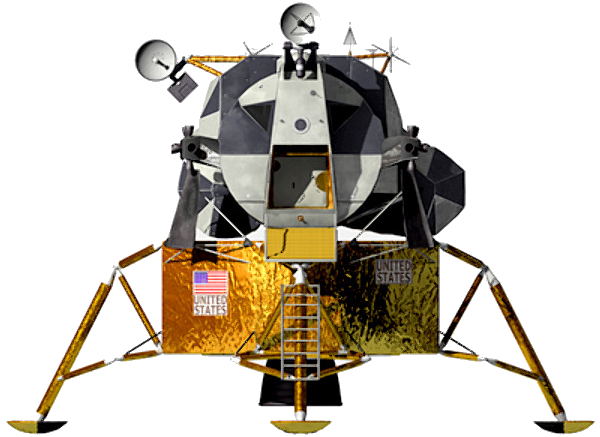
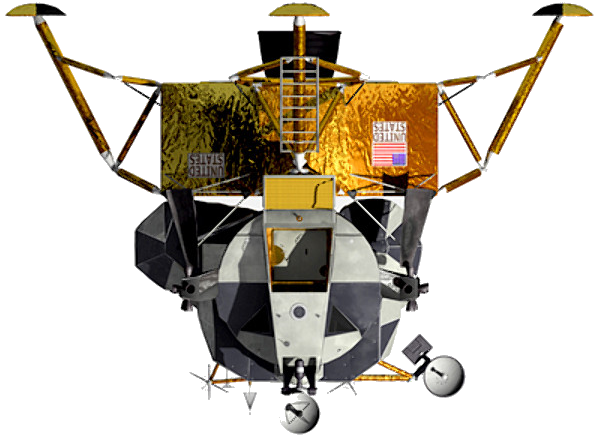
collision detection sort of works

diff --git a/Assignment3 - LunarLander/GamePlayView.cs b/Assignment3 - LunarLander/GamePlayView.cs
@@ -41,14 +41,25 @@ namespace CS5410
             InitializeLunarLander();
         }
 
-        public override GameStateEnum processInput(GameTime gameTime)
+        private void InitializeTerrain()
         {
-            if (Keyboard.GetState().IsKeyDown(Keys.Escape))
+            Vector2 startPoint = new Vector2(0, minY + (float)randomMisc.nextDouble() * (maxY - minY));
+            Vector2 endPoint = new Vector2(1, minY + (float)randomMisc.nextDouble() * (maxY - minY));
+            int iterations = 7;
+            float roughness = 4.0f;
+            float safeZoneDistance = .08f;
+            safeZones = new List<SafeZone>();
+            if (level == 1)
             {
-                return GameStateEnum.MainMenu;
+                AddSafeZones(2, safeZoneDistance);
             }
-
-            return GameStateEnum.GamePlay;
+            else
+            {
+                AddSafeZones(1, safeZoneDistance - .02f);
+            }
+            terrain = RandomMidpointDisplacement(startPoint, endPoint, roughness, iterations);
+            terrain.Insert(0, startPoint);
+            terrain.Add(endPoint);
         }
 
         private void GenerateTerrainOutline()
@@ -129,25 +140,37 @@ namespace CS5410
             }
         }
 
-        private void InitializeTerrain()
+        private void InitializeLunarLander()
         {
-            Vector2 startPoint = new Vector2(0, minY + (float)randomMisc.nextDouble() * (maxY - minY));
-            Vector2 endPoint = new Vector2(1, minY + (float)randomMisc.nextDouble() * (maxY - minY));
-            int iterations = 7;
-            float roughness = 4.0f;
-            float safeZoneDistance = .08f;
-            safeZones = new List<SafeZone>();
-            if (level == 1)
+            int screenWidth = m_graphics.PreferredBackBufferWidth;
+            int screenHeight = m_graphics.PreferredBackBufferHeight;
+            float desiredHeightPercentage = 0.05f;
+
+            // Calculate the scale factor based on the desired height of the lunar lander relative to screen height
+            float landerHeightAtScale = screenHeight * desiredHeightPercentage;
+            m_landerScale = landerHeightAtScale / m_lunarLander.Height;
+
+            // Calculate the Y-coordinate position to ensure it's above maxY by a margin and below the top of the screen
+            float maxYScreenPosition = screenHeight * (1 - maxY); // Convert maxY to screen coordinates
+            float landerYPositionMargin = maxYScreenPosition * 0.4f; // 40% above the maxY terrain height
+
+            // Randomize X position
+            float landerX = (float)randomMisc.nextDoubleInRange(0, screenWidth - (m_lunarLander.Width * m_landerScale));
+
+            // Generate a random rotation. Assuming full rotation is from 0 to 2*PI radians
+            float randomRotation = (float)(randomMisc.nextDouble() * Math.PI * 2);
+            
+            lunarLander = new LunarLander(new Vector2(landerX, landerYPositionMargin - (m_lunarLander.Height * m_landerScale)), randomRotation, m_landerScale);
+        }
+
+        public override GameStateEnum processInput(GameTime gameTime)
+        {
+            if (Keyboard.GetState().IsKeyDown(Keys.Escape))
             {
-                AddSafeZones(2, safeZoneDistance);
+                return GameStateEnum.MainMenu;
             }
-            else
-            {
-                AddSafeZones(1, safeZoneDistance - .02f);
-            }
-            terrain = RandomMidpointDisplacement(startPoint, endPoint, roughness, iterations);
-            terrain.Insert(0, startPoint);
-            terrain.Add(endPoint);
+
+            return GameStateEnum.GamePlay;
         }
 
         private List<Vector2> RandomMidpointDisplacement(Vector2 start, Vector2 end, float roughness, int iterations)
@@ -202,29 +225,6 @@ namespace CS5410
             return null;
         }
 
-        private void InitializeLunarLander()
-        {
-            int screenWidth = m_graphics.PreferredBackBufferWidth;
-            int screenHeight = m_graphics.PreferredBackBufferHeight;
-            float desiredHeightPercentage = 0.05f;
-
-            // Calculate the scale factor based on the desired height of the lunar lander relative to screen height
-            float landerHeightAtScale = screenHeight * desiredHeightPercentage;
-            m_landerScale = landerHeightAtScale / m_lunarLander.Height;
-
-            // Calculate the Y-coordinate position to ensure it's above maxY by a margin and below the top of the screen
-            float maxYScreenPosition = screenHeight * (1 - maxY); // Convert maxY to screen coordinates
-            float landerYPositionMargin = maxYScreenPosition * 0.4f; // 40% above the maxY terrain height
-
-            // Randomize X position
-            float landerX = (float)randomMisc.nextDoubleInRange(0, screenWidth - (m_lunarLander.Width * m_landerScale));
-
-            // Generate a random rotation. Assuming full rotation is from 0 to 2*PI radians
-            float randomRotation = (float)(randomMisc.nextDouble() * Math.PI * 2);
-            
-            lunarLander = new LunarLander(new Vector2(landerX, landerYPositionMargin - (m_lunarLander.Height * m_landerScale)), randomRotation, m_landerScale);
-        }
-
         public override void render(GameTime gameTime)
         {
             m_spriteBatch.Begin();
@@ -244,7 +244,7 @@ namespace CS5410
                     PrimitiveType.LineList, m_outline, 0, m_outline.Length / 2);
             }
             m_spriteBatch.Begin();
-            
+
             Vector2 origin = new Vector2(m_lunarLander.Width / 2, m_lunarLander.Height / 2);
             m_spriteBatch.Draw(
                 m_lunarLander,
@@ -263,6 +263,48 @@ namespace CS5410
 
         public override void update(GameTime gameTime)
         {
+
+            // Update the lunar lander's position based on gravity
+            lunarLander.update(gameTime);
+
+            var keyboardState = Keyboard.GetState();
+            if (keyboardState.IsKeyDown(Keys.Up) || keyboardState.IsKeyDown(Keys.W))
+            {
+                lunarLander.ApplyThrust();
+            }
+            if (keyboardState.IsKeyDown(Keys.Left) || keyboardState.IsKeyDown(Keys.A))
+            {
+                lunarLander.Rotate(-0.05f);
+            }
+            if (keyboardState.IsKeyDown(Keys.Right) || keyboardState.IsKeyDown(Keys.D))
+            {
+                lunarLander.Rotate(0.05f);
+            }
+            if (keyboardState.IsKeyDown(Keys.Q))
+            {
+                Console.WriteLine(lunarLander.Speed);
+            }
+
+            int scaleX = m_graphics.PreferredBackBufferWidth;
+            int scaleY = m_graphics.PreferredBackBufferHeight;
+            // Check for collision between the lunar lander and the terrain
+            for (int i = 0; i < terrain.Count - 1; i++)
+            {
+                Vector2 start = new Vector2(terrain[i].X * scaleX, scaleY - (terrain[i].Y * scaleY));
+                Vector2 end = new Vector2(terrain[i + 1].X * scaleX, scaleY - (terrain[i + 1].Y * scaleY));
+                float lunarLanderRadius = m_lunarLander.Width / 2 * m_landerScale;
+                if (CollisionDetection.LineCircleIntersection(start, end, new Circle(lunarLander.Position, lunarLanderRadius)))
+                {
+                    if (lunarLander.RotationInDegrees >= 175 && lunarLander.RotationInDegrees <= 185 && lunarLander.Speed < 2)
+                    {
+                        Console.WriteLine("GOOD");
+                    }
+                    else
+                    {
+                        Console.WriteLine("BAD");
+                    }
+                }
+            }
         }
     }
 }

diff --git a/Assignment3 - LunarLander/LunarLander.cs b/Assignment3 - LunarLander/LunarLander.cs
@@ -1,3 +1,4 @@
+using System;
 using Microsoft.Xna.Framework;
 public class LunarLander
 {
@@ -5,9 +6,9 @@ public class LunarLander
     public Vector2 Velocity { get; private set; }
     public float Rotation { get; private set; }
     public float Scale { get; set; }
-
-    private const float Gravity = 0.1f; // Gravitational acceleration constant
-    private const float Thrust = -0.2f; // Acceleration due to thrust
+    private const float Gravity = 0.35f;
+    private const float Thrust = -0.03f;
+    
 
     public LunarLander(Vector2 startPosition, float startRotation, float scale)
     {
@@ -16,32 +17,44 @@ public class LunarLander
         Scale = scale;
         Velocity = Vector2.Zero;
     }
+                
 
 
     public void update(GameTime gameTime)
     {
-        // Apply gravity to the Y velocity
         Velocity += new Vector2(0, Gravity * (float)gameTime.ElapsedGameTime.TotalSeconds);
-
-        // Update position based on velocity
         Position += Velocity;
+        
+    }
 
-        // Example of applying thrust (this could be triggered by user input)
-        // Velocity += new Vector2(0, Thrust * (float)gameTime.ElapsedGameTime.TotalSeconds);
+    public float Speed
+    {
+        get
+        {
+            float speed = (float)Math.Sqrt(Velocity.X * Velocity.X + Velocity.Y * Velocity.Y);
+            return speed;
+        }
+    }
 
-        // Example of rotating (this could be triggered by user input)
-        // Rotation += 0.01f; // Rotate clockwise
+    public float RotationInDegrees
+    {
+        get
+        {
+            float degrees = MathHelper.ToDegrees(Rotation);
+            // Normalize the angle to be within 0 to 360 degrees
+            degrees = (degrees + 360) % 360;
+            return degrees;
+        }
     }
 
     public void ApplyThrust()
     {
-        // Apply thrust upwards, reducing Y velocity
-        Velocity += new Vector2(0, Thrust);
+        Vector2 thrustDirection = new Vector2((float)Math.Cos(Rotation - MathHelper.PiOver2), (float)Math.Sin(Rotation - MathHelper.PiOver2));
+        Velocity += thrustDirection * Thrust;
     }
 
     public void Rotate(float rotationAmount)
     {
-        // Adjust rotation by the specified amount
         Rotation += rotationAmount;
     }
 }

diff --git a/Assignment3 - LunarLander/CollisionDetection.cs b/Assignment3 - LunarLander/CollisionDetection.cs
@@ -1,0 +1,34 @@
+using System;
+using Microsoft.Xna.Framework;
+
+public static class CollisionDetection
+{
+    public static bool LineCircleIntersection(Vector2 pt1, Vector2 pt2, Circle circle)
+    {
+        Vector2 v1 = pt2 - pt1;
+        Vector2 v2 = pt1 - circle.Center;
+        float b = -2 * (v1.X * v2.X + v1.Y * v2.Y);
+        float c = 2 * (v1.X * v1.X + v1.Y * v1.Y);
+        float d = (float)Math.Sqrt(b * b - 2 * c * (v2.X * v2.X + v2.Y * v2.Y - circle.Radius * circle.Radius));
+        if (float.IsNaN(d)) // no intercept
+        {
+            return false;
+        }
+        // These represent the unit distance of point one and two on the line
+        float u1 = (b - d) / c;
+        float u2 = (b + d) / c;
+        return (u1 <= 1 && u1 >= 0) || (u2 <= 1 && u2 >= 0);
+    }
+}
+
+public class Circle
+{
+    public Vector2 Center { get; set; }
+    public float Radius { get; set; }
+
+    public Circle(Vector2 center, float radius)
+    {
+        Center = center;
+        Radius = radius;
+    }
+}
